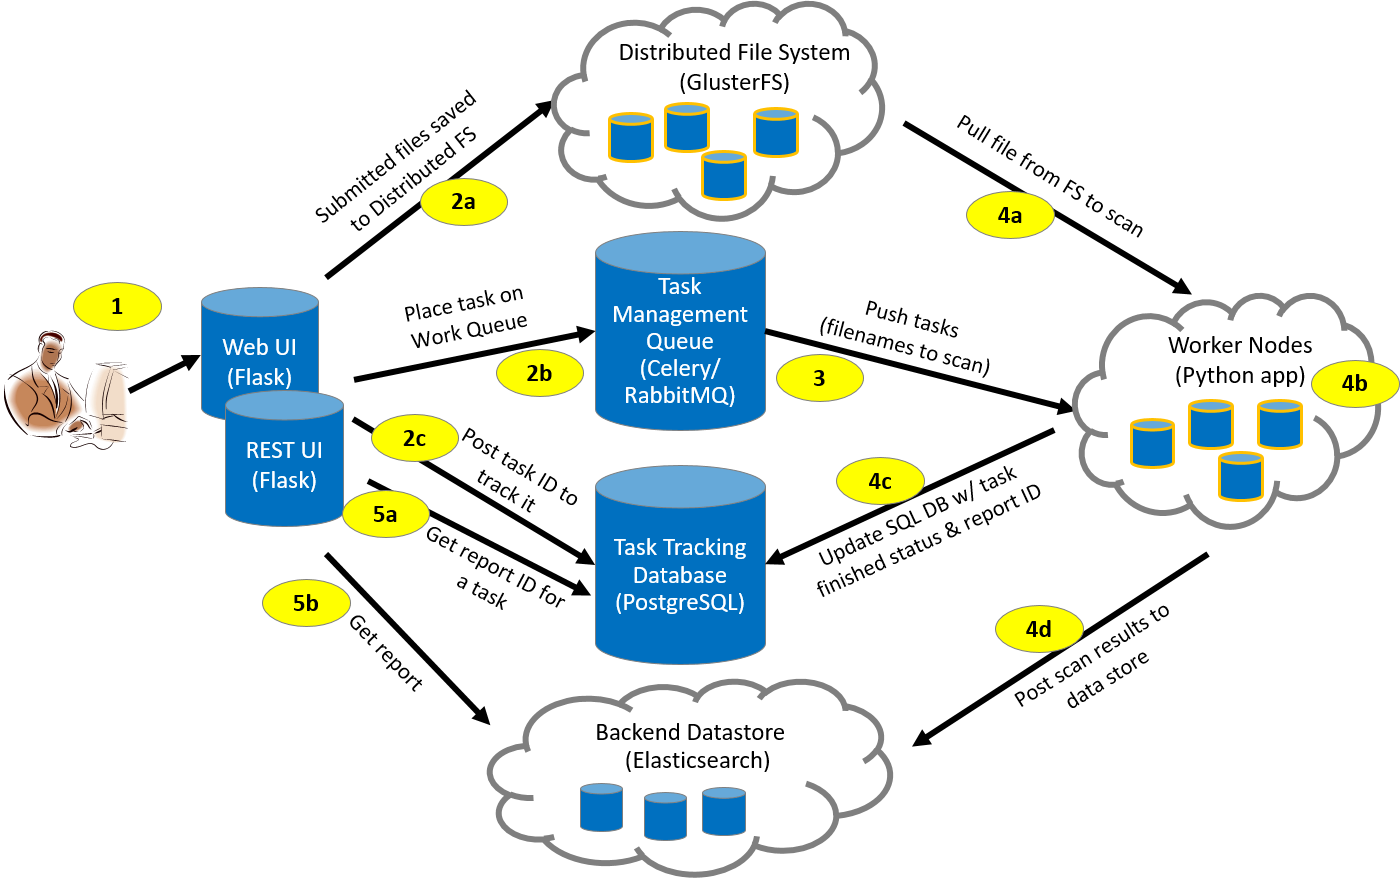
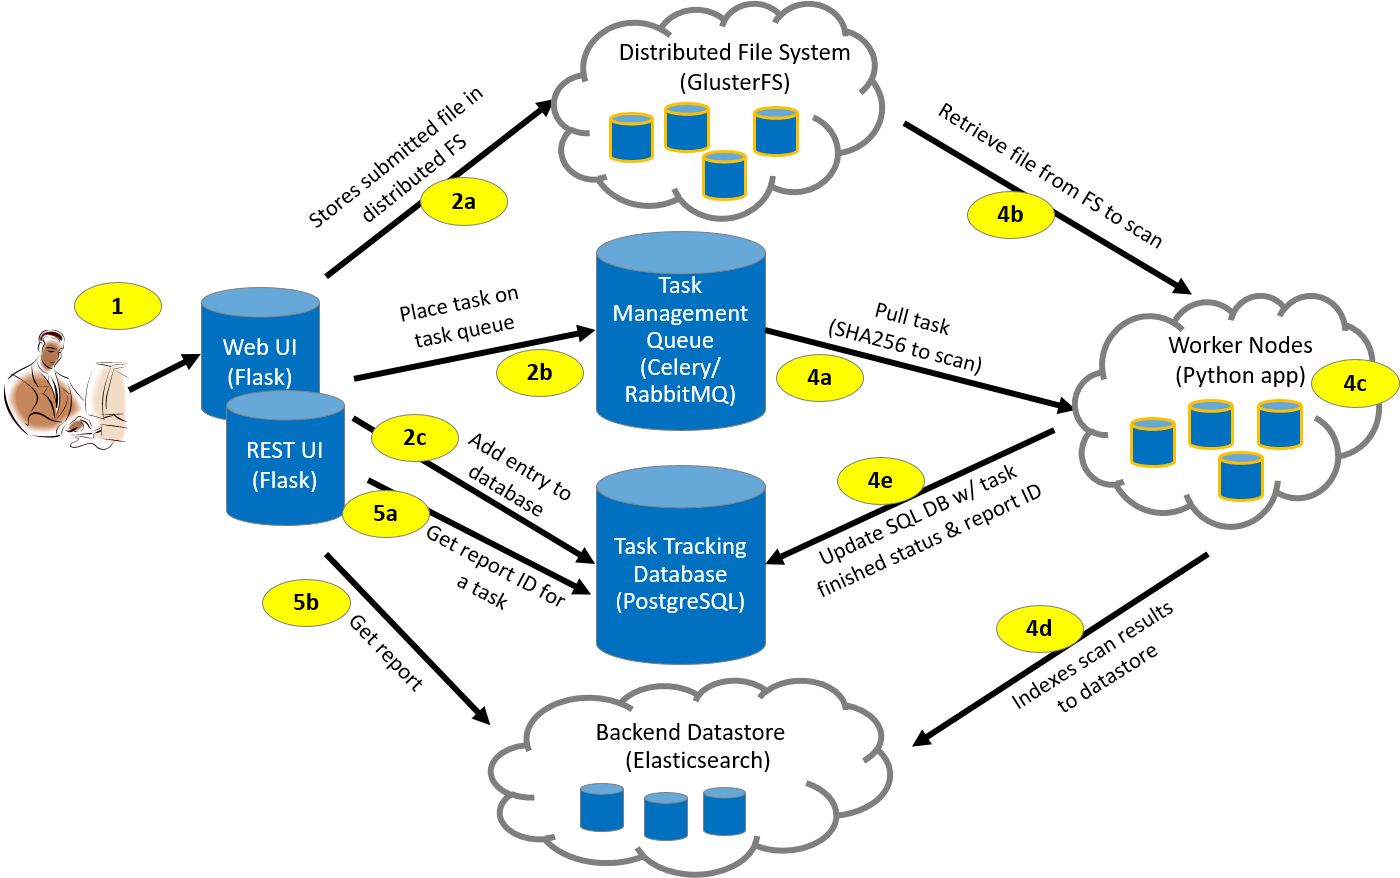
u

diff --git a/docs/arch.md b/docs/arch.md
@@ -27,12 +27,12 @@ We use ElasticSearch to store the results of our file scans. This is where the t
 
 Complete Workflow
 -----------------
-Each step of the MultiScanner workflow is described below the diagram. [**if numbered steps below are correct, diagram must be updated**]
+Each step of the MultiScanner workflow is described below the diagram.
 
 ![architecture2](img/arch2.png "MultiScanner Workflow")
 
-1. The user submits a sample file through the Web UI (or REST UI).
-1. The Web UI (or REST UI):  
+1. The user submits a sample file through the Web UI (or REST API).
+1. The Web UI (or REST API):  
   a\. &nbsp; Stores the file in the distributed file system (GlusterFS)   
   b\. &nbsp; Places the task on the task queue (Celery)  
   c\. &nbsp; Adds an entry to the task management database (PostgreSQL)  
@@ -42,7 +42,7 @@ Each step of the MultiScanner workflow is described below the diagram. [**if num
   c\. &nbsp; Analyses the file  
   d\. &nbsp; Generates a JSON blob and indexes it into Elasticsearch  
   e\. &nbsp; Updates the task management database with the task status ("complete")      
-1. The Web UI (or REST UI):  
+1. The Web UI (or REST API):  
   a\. &nbsp; Gets report ID associated with the Task ID  
   b\. &nbsp; Pulls analysis report from the Elasticsearch datastore  
 

diff --git a/docs/using.md b/docs/using.md
@@ -3,7 +3,7 @@ Usage information on the web user interface and the REST API is below. We also p
 #Web User Interface
 need details...
 
-#API
+# REST API
 Via its RESTful API, MultiScanner can be incorporated as a module in another project. Below is a simple example of how to import MultiScanner into a Python script.
 
 ``` python
